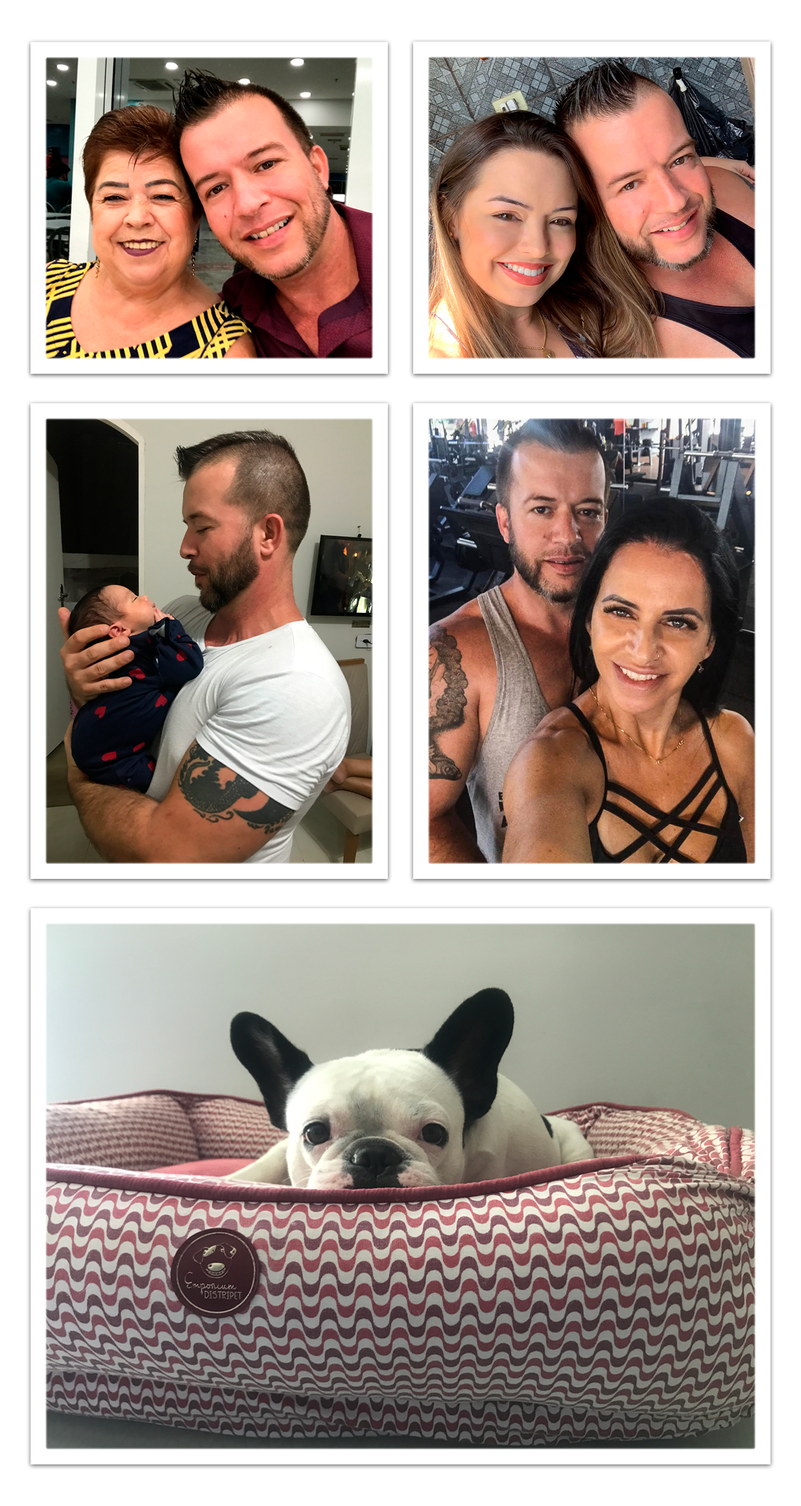
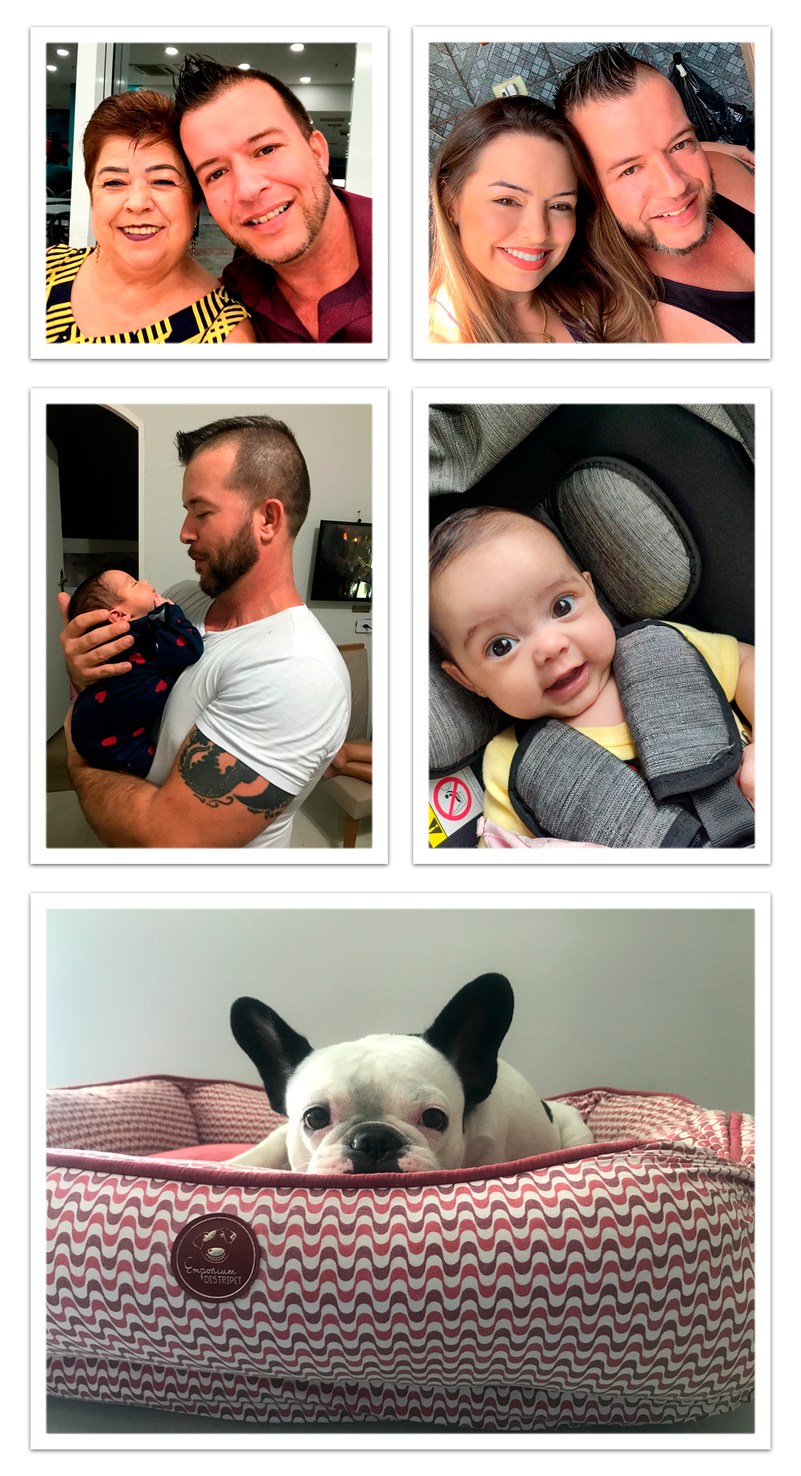
dados pessoais

diff --git a/docs/dados-pessoais.md b/docs/dados-pessoais.md
@@ -4,7 +4,7 @@
 
 === "Dados / Endereço / Contato :material-card-account-phone-outline:"
 
-    * Brasileiro, divorciado, 41 anos, habilitado (AB).
+    * Brasileiro, divorciado, 41 anos, habilitado (AB)
     * **Endereço:** Rua Icatu, nº. 2030 - Bloco 2, apartamento 207   
     * **Bairro:** Morada do Sol 
     * **Cidade:** São José dos Campos - SP 
